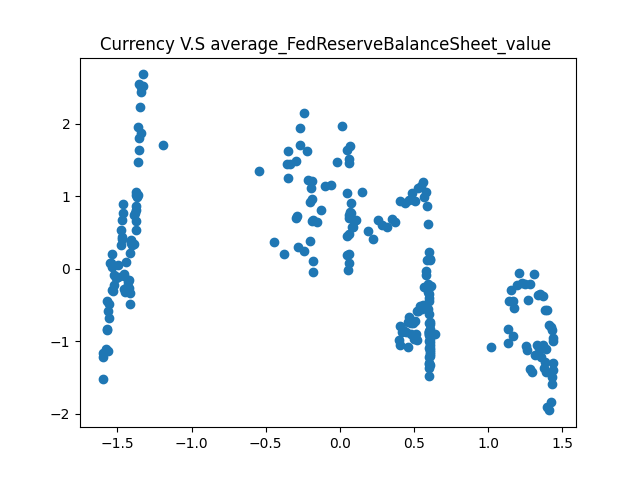
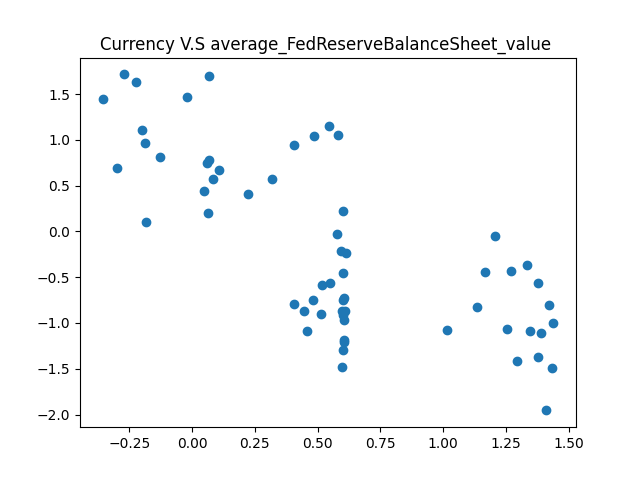
graphs

diff --git a/datasets/accessDatasetsCode/temporaryDatasetcoding.py b/datasets/accessDatasetsCode/temporaryDatasetcoding.py
@@ -120,7 +120,8 @@ data = data[(data['average_exports_value'] < 0) &
 merged_df2 = pd.merge(merged_df, euros, how="inner", on="month")
 data_currency = normalize_full_df(merged_df2)
 
-
+data_currency = data_currency[(
+    data_currency['average_TreasurySecurities_value'] > .2) & (data_currency['average_exports_value'] < .67)]
 X = np.ones((data.shape[0], 1))
 X = np.column_stack((X, data.drop(columns=['month', 'close']).values))
 y = np.array(data['close'])
@@ -159,6 +160,7 @@ def plot():
 
 def plot_feats_1():
     data2 = data.drop(columns=['month', 'close'])
+
     for col in data2.columns:
         plt.figure()
         plt.scatter(data2[col].tolist(), data['close'].tolist())
